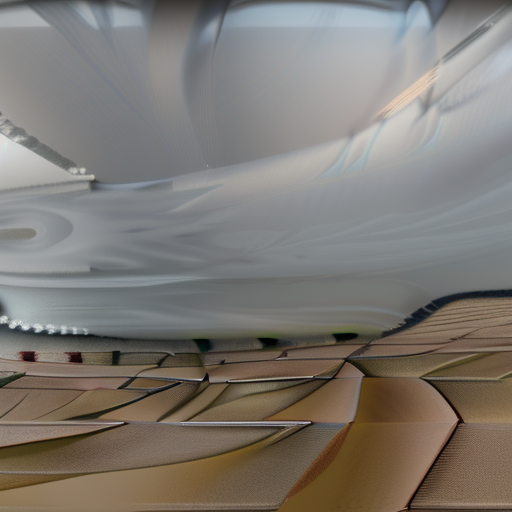
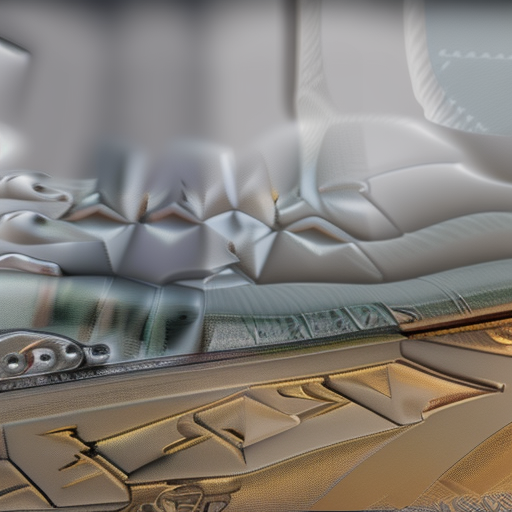
newcode

diff --git a/code/index.py b/code/index.py
@@ -16,8 +16,8 @@ stability_api = client.StabilityInference(
     key=os.environ['STABILITY_KEY'], # API Key reference.
     verbose=True, # Print debug messages.
     # Set the engine to use for generation. For SD 2.0 use "stable-diffusion-v2-0".
-    engine="stable-diffusion-768-v2-1"
-    #engine="stable-diffusion-v1-5", 
+    #engine="stable-diffusion-768-v2-1"
+    engine="stable-diffusion-v1-5", 
     )
 
 def generate(_prompt, _img):
@@ -52,6 +52,6 @@ imageDir = Path.cwd() / "output"
 imageDir.mkdir(parents=True, exist_ok=True)
 
 
-img = Image.open("code/images/kinmen.png")
+img = Image.open("code/images/border.png")
 for i in range(5):
-    generate("",img).save(imageDir / ("output_new_"+str(i)+".png"))
+    generate("",img).save(imageDir / ("border_output_new_"+str(i)+".png"))

diff --git a/code/imageCaption.py b/code/imageCaption.py
@@ -1,0 +1,13 @@
+import transformers 
+from PIL import Image
+#device = torch.device('cuda' if torch.cuda.is_available() else 'cpu')
+pipe = transformers.pipeline("image-to-text", model="nlpconnect/vit-gpt2-image-captioning")
+
+width = 512
+height = 512
+url = f"https://picsum.photos/{width}/{height}"
+image = Image.open(requests.get(url, stream=True).raw).convert("RGB")
+image = image.resize((width, height))
+
+
+print ( pipe(image)[0]["generated_text"])
